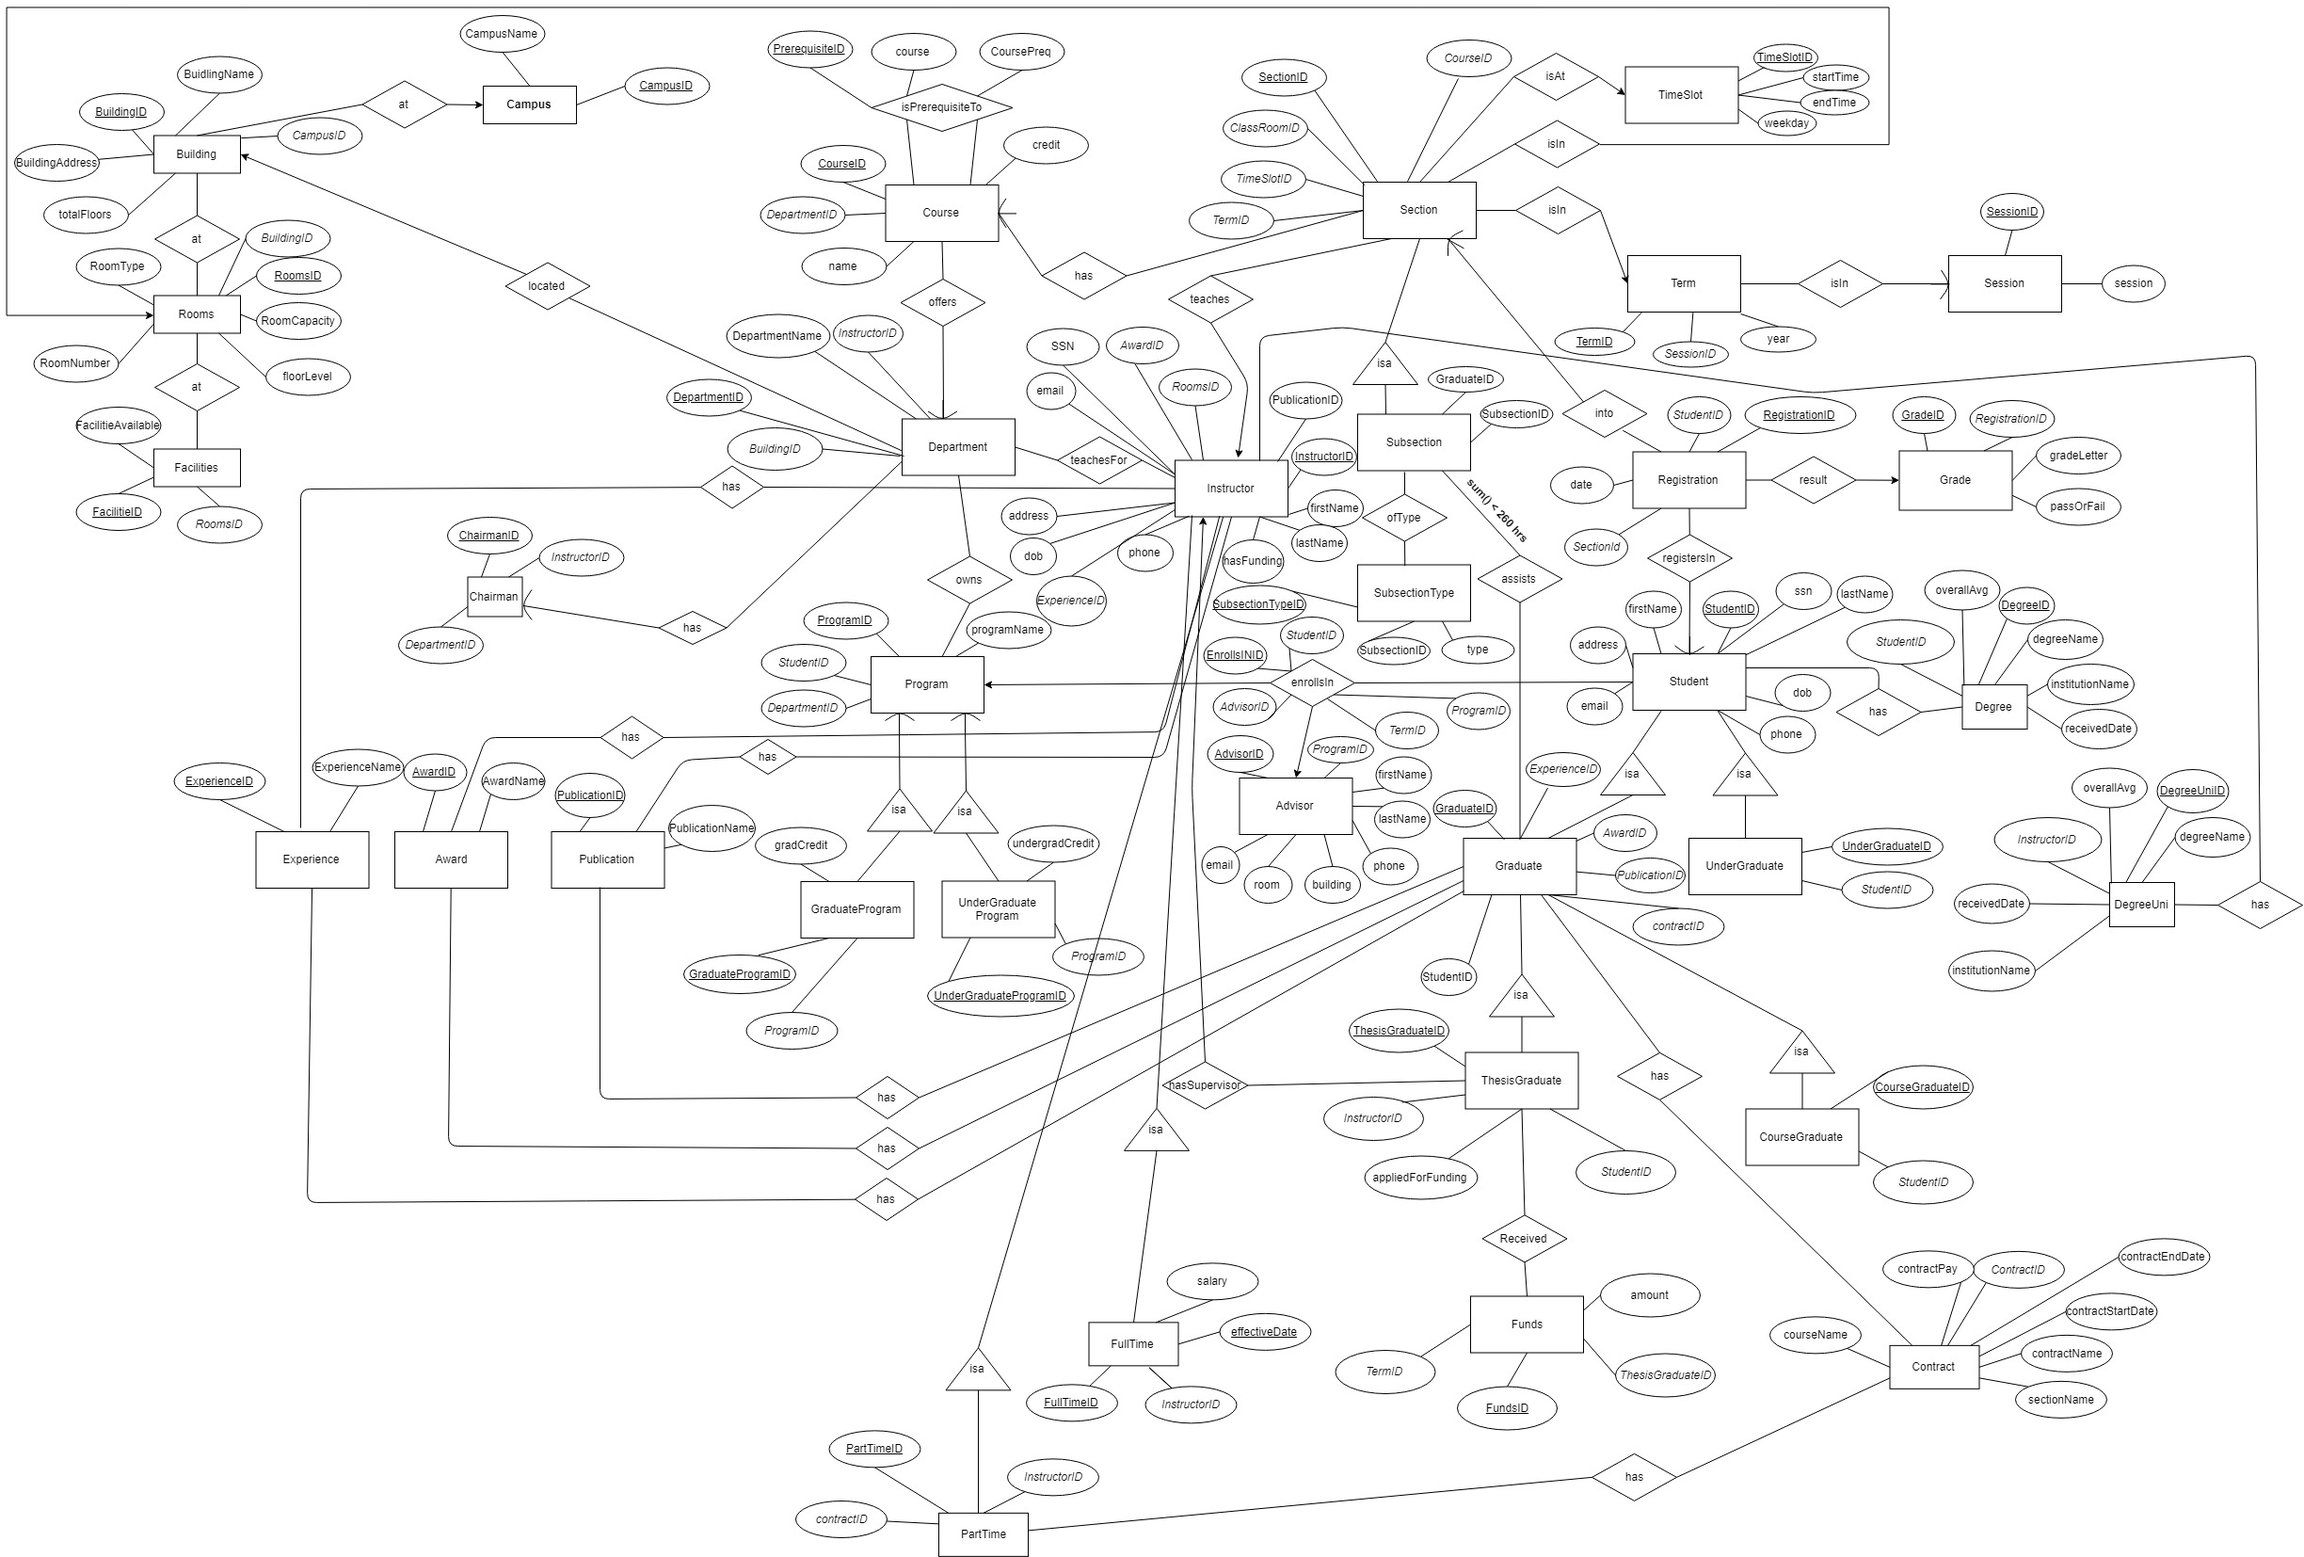
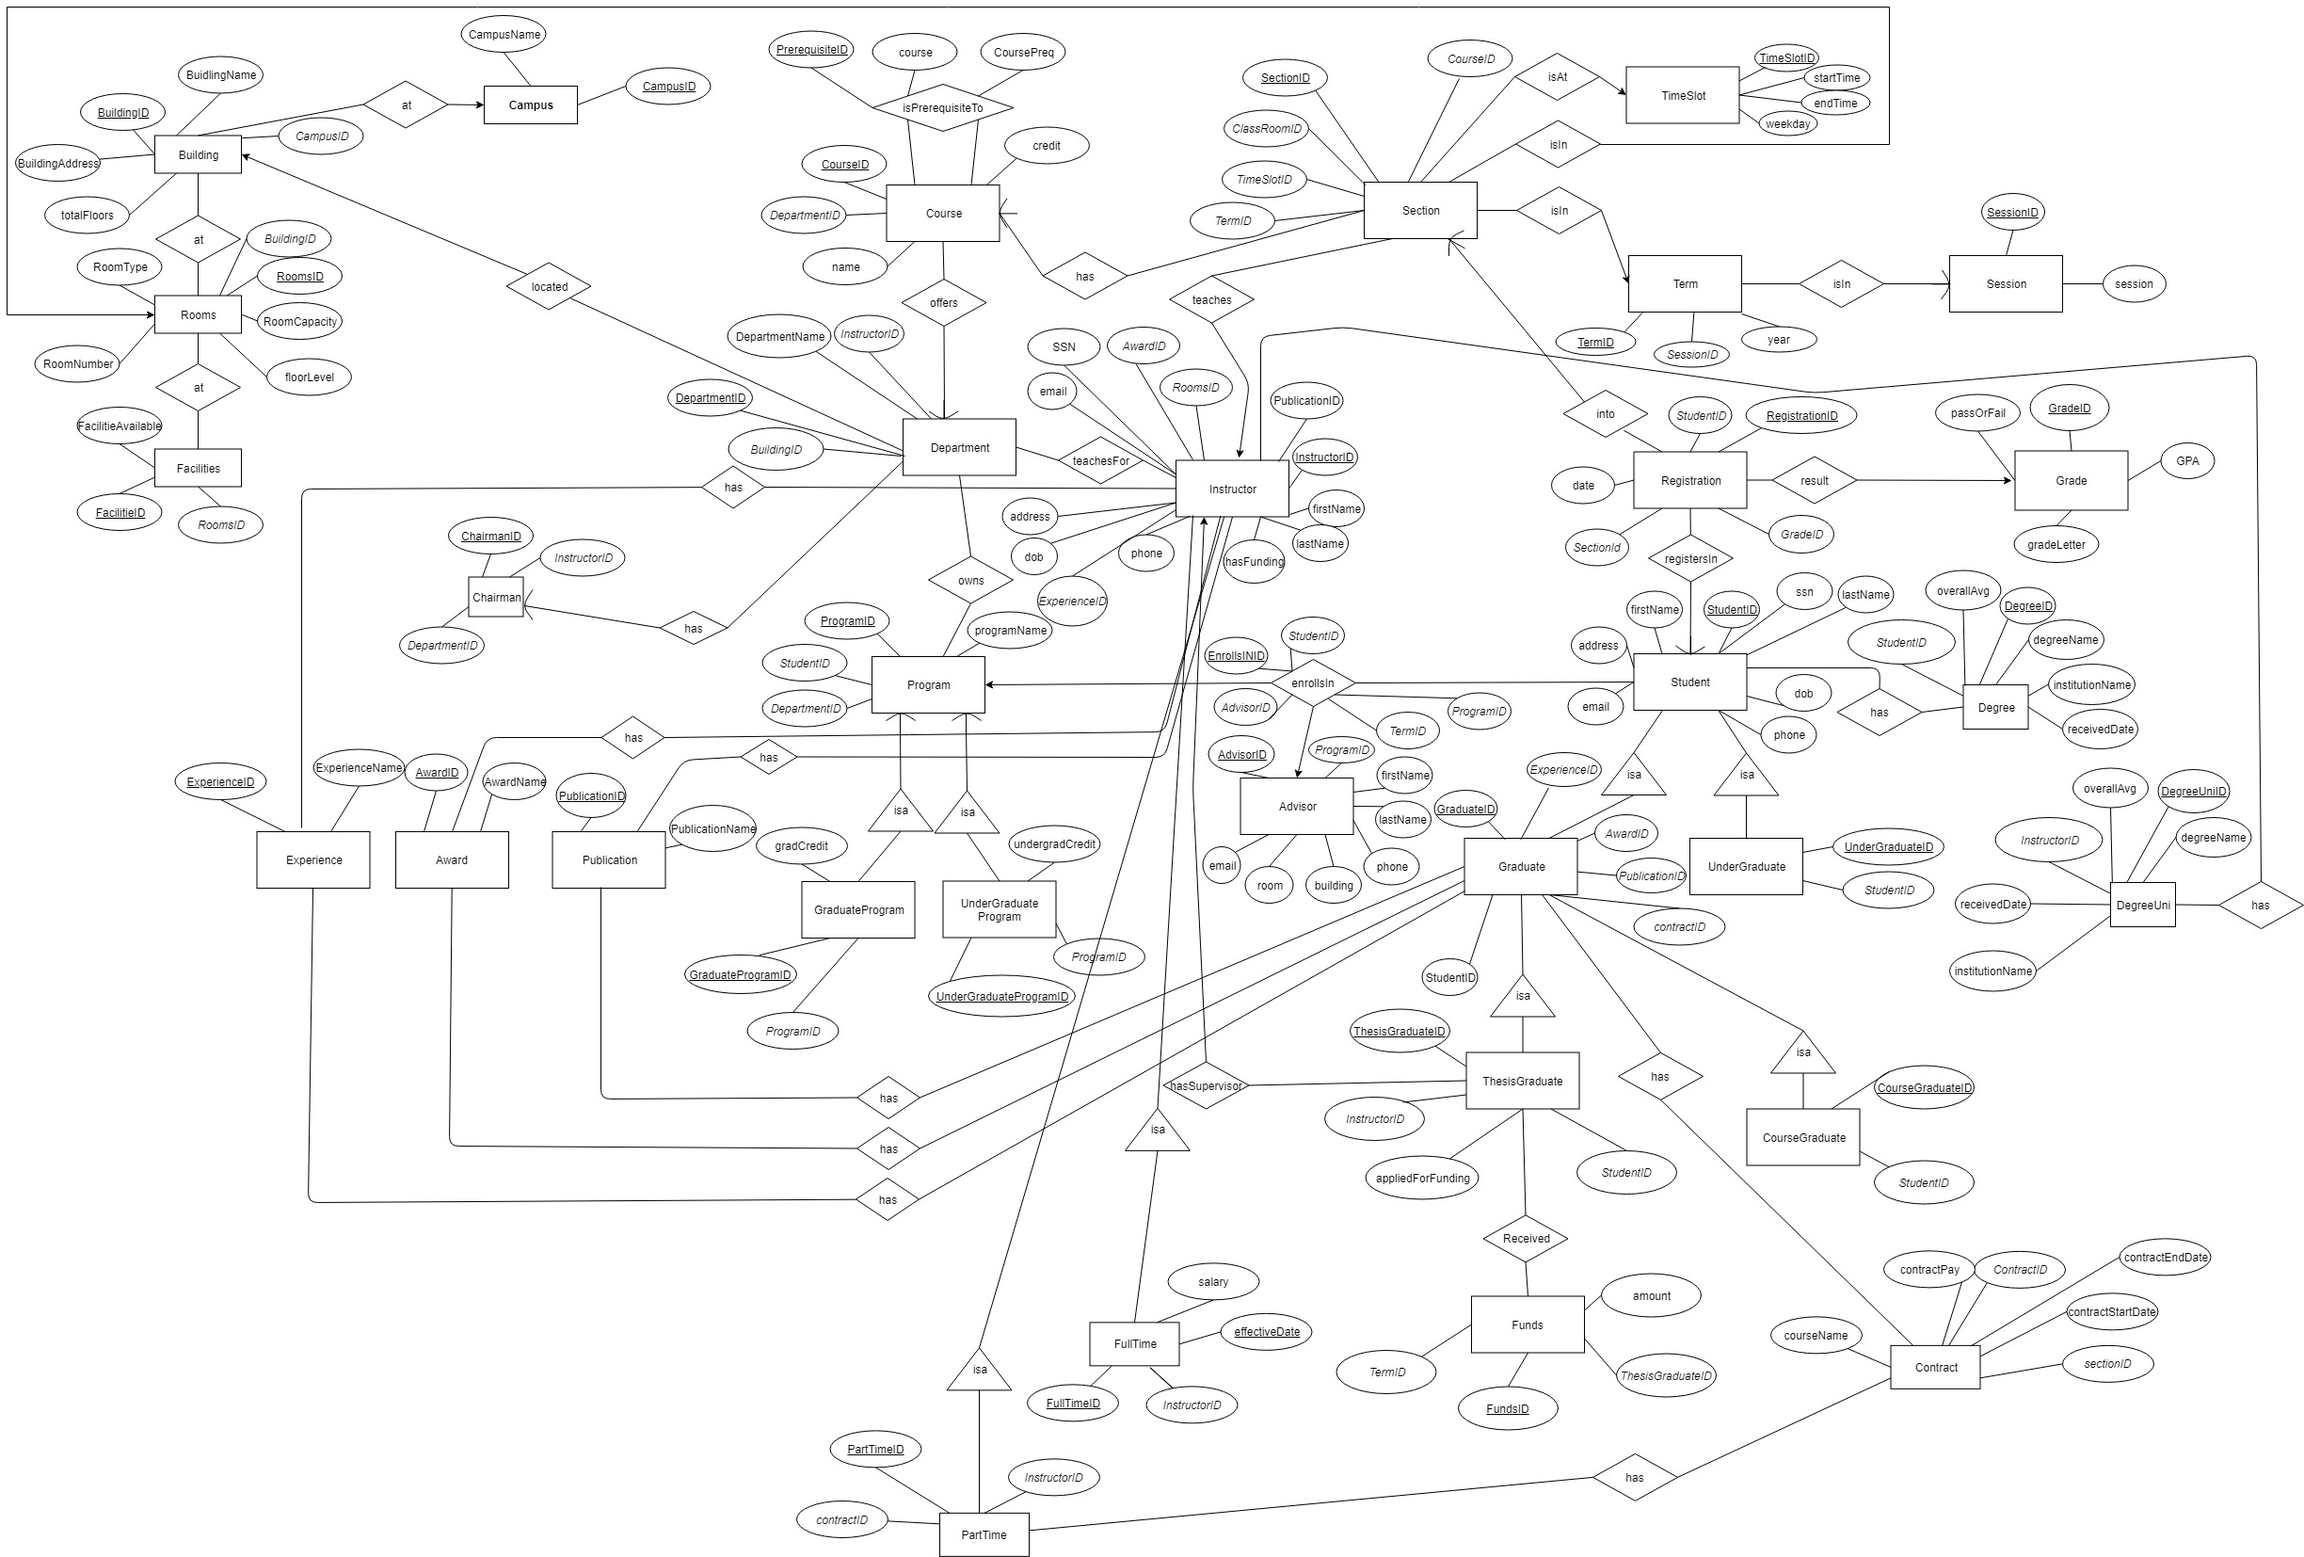
Updated ER and Query according to the new ER.

diff --git a/assets/query.php b/assets/query.php
@@ -1852,9 +1852,9 @@
    $STH = $conn->query("SELECT StudentID, firstName, lastName, SSN, dob, phone, email, address FROM Student WHERE StudentID = '".$_POST['sendingUserID']."'");
                        $row = $STH->fetch();
   $STHOne = $conn->query("SELECT degreeName FROM Degree WHERE StudentID = '".$_POST['sendingUserID']."'");
-                       $STH = $conn->query("SELECT c.name AS 'Course Name', g.gradeLetter AS 'Grade'
+                       $STH = $conn->query("SELECT c.name AS 'Course Name', g.GradeLetter AS 'Grade'
                                             FROM Student s, Course c, Registration r, Section sc, Grade g
-                                            WHERE s.StudentID = r.StudentID AND r.SectionID = sc.SectionID AND sc.CourseID = c.CourseID AND g.RegistrationID = r.RegistrationID AND s.StudentID = '".$_POST['sendingUserID']."'");
+                                            WHERE s.StudentID = r.StudentID  AND r.SectionID = sc.SectionID AND sc.CourseID = c.CourseID AND r.GradeID = g.GradeID AND s.StudentID = '".$_POST['sendingUserID']."'");
    $result = 0;
 ?>
 <div class="panel-body">
